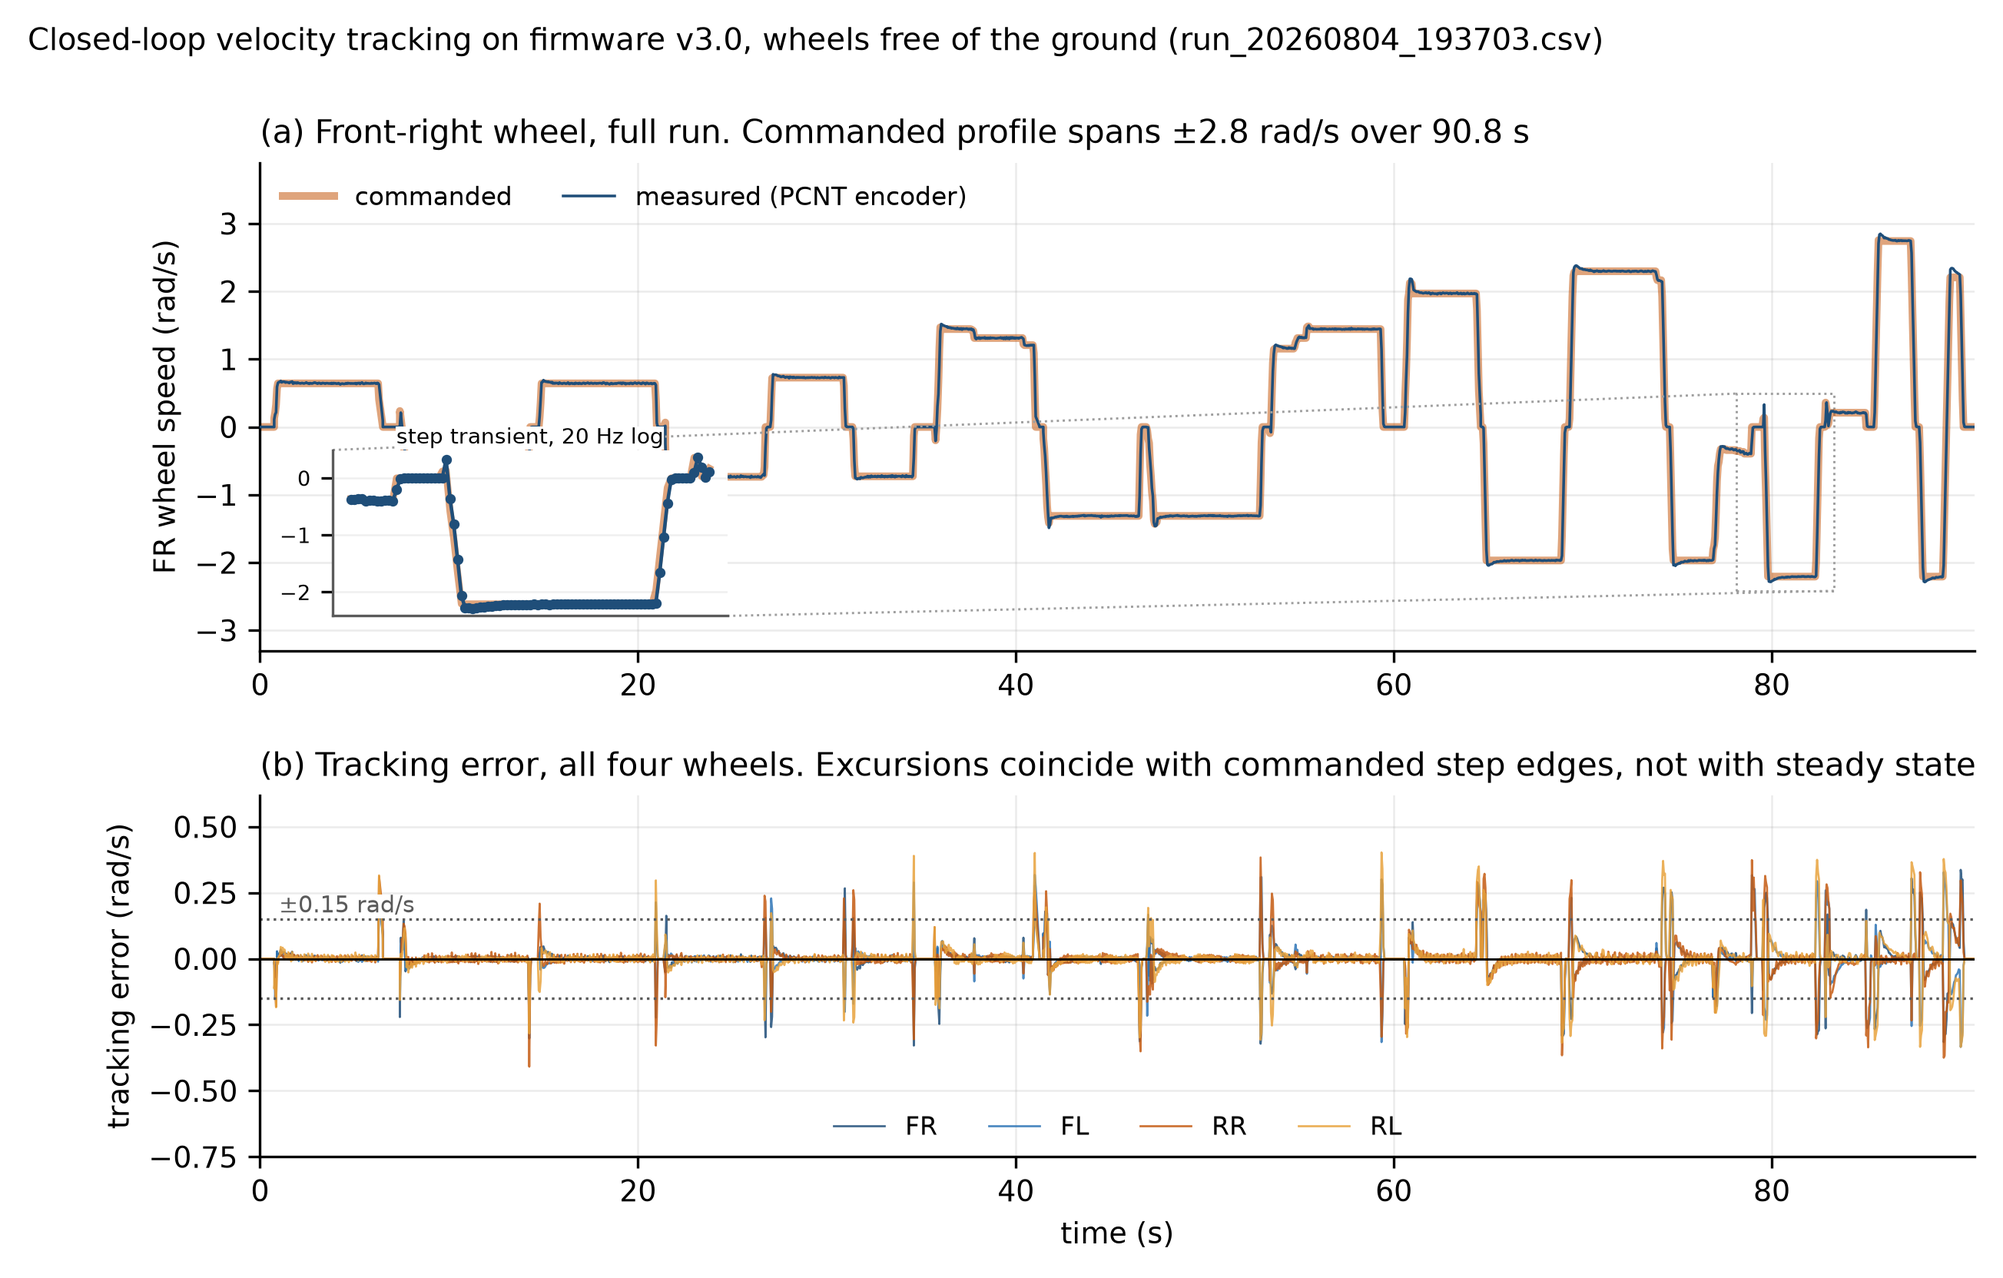
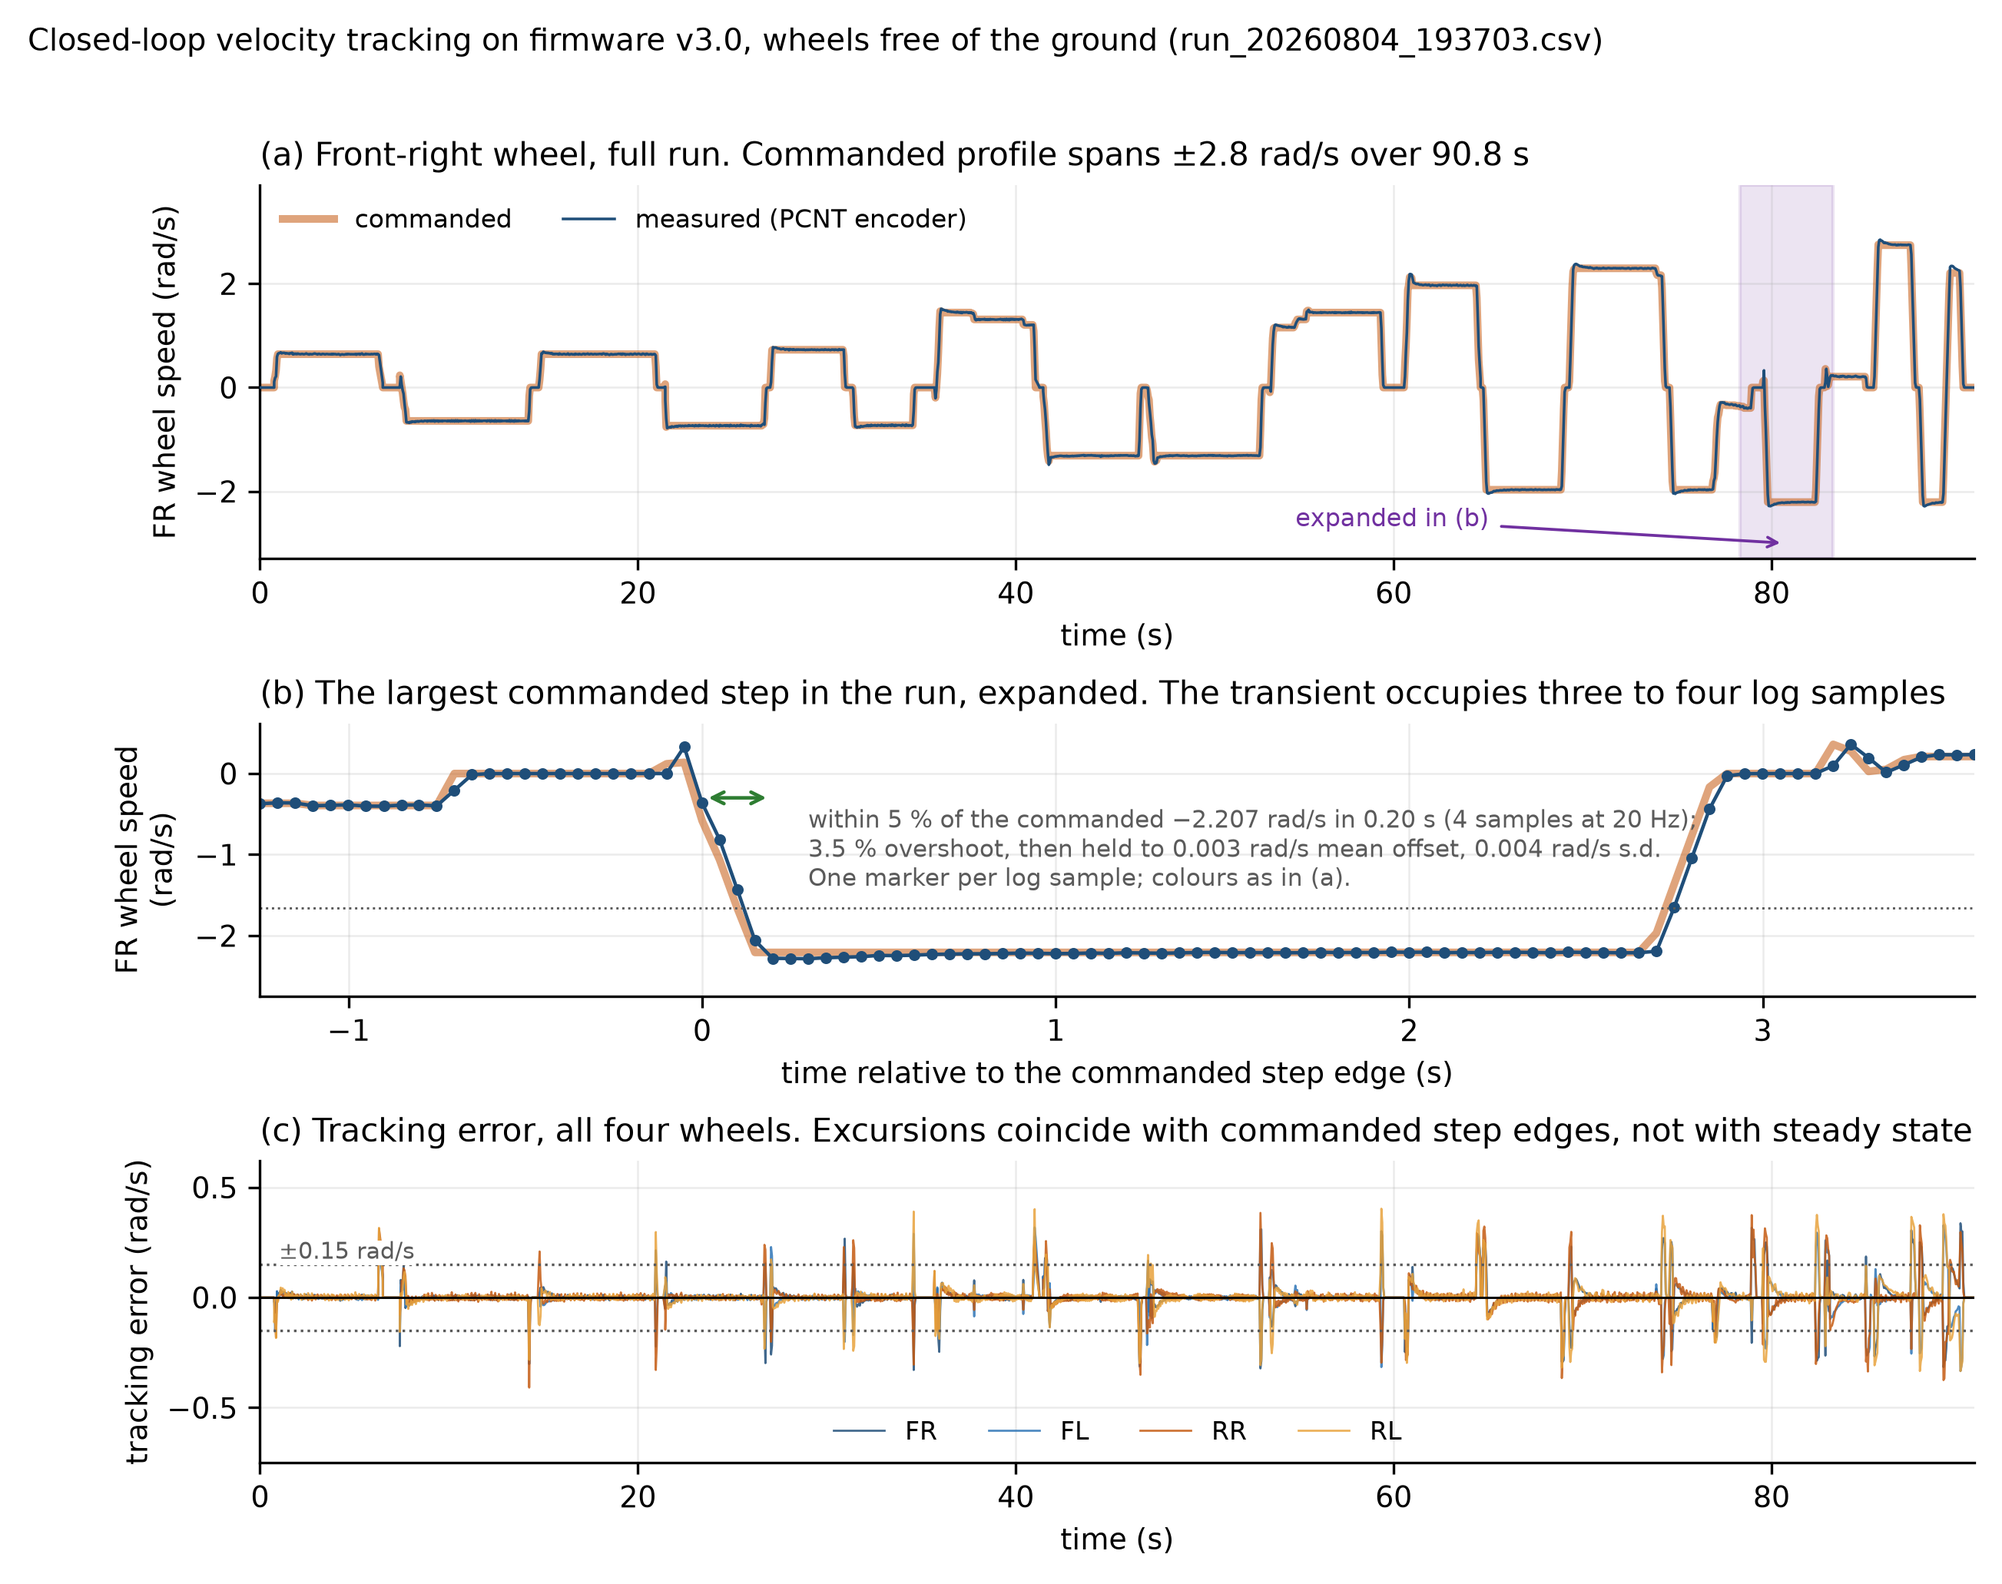
Rebuild the tracking and layer-status figures against current data
Two figures carried claims the repo's own logs no longer support, and both
were redrawn from the data rather than edited.

f_track2.py (Figure 7). The step-transient inset sat on top of the trace it
annotated, had its x-axis ticks stripped, and was never mentioned in the
caption, so the one thing it existed to show -- the timescale of the
transient -- was the one thing a reader could not recover from it. Replaced
the inset with a third panel carrying a real time axis relative to the step
edge, and annotated it with the measured numbers: the wheel reaches within
5 % of the commanded -2.207 rad/s in 0.20 s (four 20 Hz samples), overshoots
3.5 %, then holds to a 0.003 rad/s mean offset with 0.004 rad/s s.d. The
region it expands is now shaded in panel (a).

f_layers.py (Figure 13). Two of its entries were stale and contradicted the
report text written after them:

  - "every map ever built grades FOLDED" predates the 15 Sep A/B/C. RAW does
    not fold; the verdict on the three commissioning maps is not-folded, and
    the criterion that actually fails is coverage at 77.6-84.6 % unclassified.
  - "0.229 m over ~18 m (1.27 %), on spec" was correct but sat under a report
    sentence claiming closure below 1 % on every logged drive. It is below 1 %
    up to 10.61 m and 1.1-1.5 % on the long routes.

Also corrected the kinematics self-test figure. wheel_forensics.py --selftest
prints 2.22e-16 worst case for the forward/inverse round trip (one ULP of
[…]

diff --git a/docs/aps_report/figure_src/f_layers.py b/docs/aps_report/figure_src/f_layers.py
@@ -1,86 +1,110 @@
 import sys, os; sys.path.insert(0, os.path.dirname(os.path.abspath(__file__)))
 from style import *
-import numpy as np
 import matplotlib.patches as mp
 
-# (layer, grade, evidence one-liner, band)  band: 'good' | 'break' | 'never'
+# (layer, band, evidence where it exists, or the stated reason where it does not)
+# bands: 'measured' | 'rate' | 'open'
 L = [
- ('Motor control — ESP32, PID + feedforward, 100 Hz', 'good',
-  'all four motors 0.043–0.046 rad/s RMS, zero saturation, zero sign fault'),
- ('Encoders and wiring',                                            'good',
-  'travel-spread ratio 1.00 on a non-rotating square'),
- ('Asymmetric mecanum kinematics',                                  'good',
-  'forward model reproduces ground-truth twist to 1.7e-16 over 20 000 random twists'),
- ('Odometry integration',                                           'good',
-  'offline re-integration from raw encoders diverges 0.0054 m peak, 0.0000 m final'),
- ('Wheel-odometry physical accuracy',                               'good',
-  '4.582 m closed to 3.1 mm (0.07 %); 0.229 m over ~18 m (1.27 %), on spec'),
- ('map→odom — the SLAM front end',                                  'break',
-  'one correction per pose-graph node, every node; 6.8× spread across identical drives'),
- ('An accepted commissioning map',                                  'break',
-  'every map ever built grades FOLDED; one of four sub-criteria met, once'),
- ('AMCL localisation on a saved map',                               'never',
-  'the whole block has never executed; a launch-topology fault made it impossible'),
- ('Global planner — NavFn',                                         'ok-starved',
-  'plans successfully, runs at 1.25 Hz against 5 Hz requested'),
- ('Local controller — MPPI, omnidirectional model',                 'ok-starved',
-  'goals reached in 25.9 s and 21.0 s; control loop 7.5–13.7 Hz against 20 Hz'),
- ('Safety chain — collision_monitor to wheels',                     'ok-starved',
-  'confirmed end to end; stale-scan warnings under CPU load'),
- ('Operator dashboard',                                             'good',
-  'click pixel to world coordinate exact to 1e-6 at three device pixel ratios'),
- ('Named-location library',                                         'never',
-  'designed, no code written'),
+ ('Motor control, ESP32, PID with feedforward, 100 Hz', 'measured',
+  'per-wheel RMS 0.040-0.047 rad/s over 26 468 bench samples, 0.066-0.077 rad/s under\n'
+  'chassis load over 35 248; no channel saturated in any recorded run'),
+ ('Encoders and level-shifted return path', 'measured',
+  'quadrature decoded on hardware counters; travel-spread ratio 1.00 on a\n'
+  'non-rotating square'),
+ ('Asymmetric mecanum kinematics', 'measured',
+  'forward model inverts independently generated twists to 2.22e-16 worst case\n'
+  'over 20 000 random cases, which is one unit in the last place'),
+ ('Odometry integration', 'measured',
+  'offline re-integration from the raw encoder record diverges 0.0054 m peak\n'
+  'and 0.0000 m at the end of a complete drive'),
+ ('Wheel-odometry closure against the floor', 'measured',
+  '0.07 % over 4.582 m; 0.23, 0.29 and 0.91 % over 8.00 to 10.61 m;\n'
+  '1.27 % over the longest route driven, about 18 m'),
+ ('Yaw-consistency residual from the two diagonal pairs', 'measured',
+  'median 0.035 rad/s while moving over four drives, p95 0.111-0.124,\n'
+  'no sample above the 0.5 rad/s episode threshold'),
+ ('Operator dashboard, screen to world transform', 'measured',
+  'tapped pixel to world coordinate within 1e-6 of the analytic value at three\n'
+  'device pixel ratios'),
+ ('Global planner, NavFn', 'rate',
+  'plans successfully on every goal attempted; runs at 1.25 Hz against the 5 Hz\n'
+  'requested, limited by host CPU rather than by the planner'),
+ ('Local controller, MPPI with an omnidirectional model', 'rate',
+  'goals reached in 21.0 s and 25.9 s; control loop 7.5-13.7 Hz against 20 Hz\n'
+  'requested, same host CPU limit'),
+ ('Safety chain, collision monitor through to the wheels', 'rate',
+  'confirmed end to end; issues stale-scan warnings under the same CPU load'),
+ ('Scan matching into the pose estimate', 'open',
+  'measured to increase closure error, 0.229 m to 0.477 m on an 18 m drive and\n'
+  '2.58 cm to 6.2 cm on a 38 s square, so it was disabled on measured evidence.\n'
+  'A re-enabled configuration with the range cap now settled is prepared and not yet driven'),
+ ('A commissioning map meeting all four acceptance criteria', 'open',
+  'three of four met: verdict not folded, doubled walls 0.7-1.03 %, return to mark\n'
+  '6.4-80.6 mm. Coverage fails at 77.6-84.6 % unclassified because the available\n'
+  'test area permits a traversable loop of only a few metres'),
+ ('Localisation against a previously saved map', 'open',
+  'requires an accepted map, the row above; not yet exercised for that reason'),
+ ('Inertial measurement and fused state estimation', 'open',
+  'deliberately deferred. The unfused estimate is the baseline against which the\n'
+  'sensing requirement is stated, and fitting the sensor first removes it'),
+ ('Named-location library', 'open',
+  'designed; implementation held behind an accepted map, which defines the\n'
+  'coordinates it would store'),
 ]
 
-COL = {'good': C['fixed'], 'break': C['defect'], 'never': C['grey'],
-       'ok-starved': C['command']}
-MARK = {'good': '✓', 'break': '✗', 'never': '·', 'ok-starved': '~'}
+COL  = {'measured': C['fixed'], 'rate': C['command'], 'open': C['neutral']}
+MARK = {'measured': '●', 'rate': '◐', 'open': '○'}
+FILL = {'measured': 0.92, 'rate': 0.92, 'open': 0.0}
 
-fig, ax = plt.subplots(figsize=(10.6, 6.0))
-GAP = 1.35          # extra room between layer 5 and layer 6, where the cliff is
-TOP = len(L) + GAP
-ax.set_xlim(0, 100); ax.set_ylim(-0.6, TOP + 3.0); ax.axis('off')
+fig, ax = plt.subplots(figsize=(11.4, 9.2))
+GAP = 1.85          # extra space where measured evidence ends
+first_open = min(i for i, r in enumerate(L) if r[1] == 'open')
 
-def ypos(i):
-    return TOP - i - (GAP if i >= 5 else 0)
+# Row height follows the number of evidence lines, so a three-line reason does
+# not run into the row beneath it.
+heights = [0.62 + 0.42*ev.count('\n') for _, _, ev in L]
+ys, cur = [], 0.0
+for i, h in enumerate(heights):
+    if i == first_open:
+        cur += GAP
+    cur += h
+    ys.append(-cur + h/2)
+TOP = 0.0
+
+ax.set_xlim(0, 100); ax.set_ylim(min(ys)-2.2, 2.9); ax.axis('off')
+
+def mark(x, y, band):
+    ax.plot([x], [y], marker='o', ms=8.5, mfc=COL[band] if FILL[band] else 'none',
+            mec=COL[band], mew=1.4, alpha=0.95, clip_on=False, zorder=5, ls='none')
 
 for i, (name, band, ev) in enumerate(L):
-    y = ypos(i)
-    col = COL[band]
-    # the status chip: width carries the message, not a uniform box
-    w = {'good': 5.2, 'ok-starved': 3.6, 'break': 5.2, 'never': 2.2}[band]
-    ax.add_patch(mp.Rectangle((1.5, y-0.30), w, 0.60, fc=col,
-                              ec='none', alpha=0.92 if band != 'never' else 0.5))
-    ax.text(1.5+w/2, y, MARK[band], ha='center', va='center', fontsize=10,
-            color='white', fontweight='bold')
-    ax.text(8.4, y, name, ha='left', va='center', fontsize=8.6,
-            fontweight='bold' if band == 'break' else 'normal',
-            color=col if band in ('break',) else 'k')
-    ax.text(46, y, ev, ha='left', va='center', fontsize=7.3, color=C['neutral'])
+    y = ys[i]
+    mark(2.6, y, band)
+    ax.text(5.6, y, name, ha='left', va='center', fontsize=8.5, color='k')
+    ax.text(46, y, ev, ha='left', va='center', fontsize=7.0,
+            color=C['neutral'], linespacing=1.35)
 
-# the cliff
-CLIFF = (ypos(4) + ypos(5)) / 2.0
-ax.plot([1.5, 99], [CLIFF, CLIFF], color=C['defect'], lw=1.5, ls=(0, (7, 4)))
-ax.text(1.5, CLIFF + 0.30, 'everything below the LiDAR is measured and good',
-        fontsize=8.2, color=C['fixed'], style='italic')
-ax.text(1.5, CLIFF - 0.30, 'everything from the LiDAR up is broken, starved, or has never run',
-        fontsize=8.2, color=C['defect'], style='italic', va='top')
+CLIFF = (ys[first_open-1] - heights[first_open-1]/2 + ys[first_open] + heights[first_open]/2) / 2.0
+ax.plot([2.0, 99], [CLIFF, CLIFF], color=C['neutral'], lw=1.0, ls=(0, (6, 4)))
+ax.text(2.0, CLIFF + 0.20, 'evidence available and reproduced',
+        fontsize=8.0, color=C['fixed'], style='italic', va='bottom')
+ax.text(2.0, CLIFF - 0.20, 'remaining work, with the reason it has not been done stated against each row',
+        fontsize=8.0, color=C['neutral'], style='italic', va='top')
 
-ax.text(1.5, TOP + 2.45,
-        'The break is at exactly one component, and it is not where three months of effort went.',
-        fontsize=9.6, fontweight='bold')
-ax.text(1.5, TOP + 1.75,
-        'On the longest drive in the project, wheel odometry came back 0.229 m from the mark — '
-        '1.27 %, dead on its own spec —\nand the SLAM estimate took that and made it 0.477 m worse. '
-        'The cheapest sensor on the robot is the most trustworthy one.',
-        fontsize=8.0, color=C['neutral'], va='top')
+ax.text(2.0, TOP + 2.45,
+        'Evidence status of each layer of the system',
+        fontsize=10.2, fontweight='bold')
+ax.text(2.0, TOP + 1.75,
+        'Every layer carrying the platform’s motion is measured against an external reference or an independent implementation. '
+        'The layers that remain\nare listed with the specific reason they are outstanding, which in three of five cases is the size of the available test space rather than the platform.',
+        fontsize=7.8, color=C['neutral'], va='top', linespacing=1.45)
 
-for lbl, band, x in [('measured, reproduced', 'good', 4), ('works but CPU-starved', 'ok-starved', 30),
-                     ('broken', 'break', 56), ('never executed', 'never', 72)]:
-    ax.add_patch(mp.Rectangle((x, -0.45), 2.0, 0.5, fc=COL[band], ec='none',
-                              alpha=0.92 if band != 'never' else 0.5))
-    ax.text(x+2.7, -0.20, lbl, fontsize=7.6, va='center')
+LEG = min(ys) - 1.5
+for lbl, band, x in [('measured and reproduced', 'measured', 2.6),
+                     ('works, below its requested update rate', 'rate', 30.0),
+                     ('not yet established, reason stated', 'open', 66.0)]:
+    mark(x, LEG, band)
+    ax.text(x+2.0, LEG, lbl, fontsize=7.6, va='center')
 
 plt.tight_layout()
 plt.savefig(f'{FIGDIR}/fig22_layer_audit.png', bbox_inches='tight')

diff --git a/docs/aps_report/figure_src/f_track2.py b/docs/aps_report/figure_src/f_track2.py
@@ -1,7 +1,6 @@
 import sys, os; sys.path.insert(0, os.path.dirname(os.path.abspath(__file__)))
 from style import *
-import numpy as np, csv, math
-from mpl_toolkits.axes_grid1.inset_locator import inset_axes, mark_inset
+import numpy as np, csv
 
 def load(p):
     with open(p) as f:
@@ -10,34 +9,53 @@ def load(p):
 
 A = load(f'{REPO}/data/bench_logs/bench/run_20260804_193703.csv')
 t = A[:,0]-A[0,0]
+tg, ac = A[:,1], A[:,2]
 
-fig = plt.figure(figsize=(9.6, 5.6))
-gs = fig.add_gridspec(2, 1, height_ratios=[1.35, 1], hspace=0.34)
+# The step the zoom panel expands: the largest commanded change in the run.
+i0 = int(np.argmax((t > 79.5) & (tg < -0.5)))
+TGT = tg[i0+2]                      # -2.207 rad/s, the level commanded after the ramp
+W0, W1 = t[i0]-1.3, t[i0]+3.6       # zoom window, seconds
 
-# (a) FR full trace + inset
+fig = plt.figure(figsize=(9.6, 7.2))
+gs = fig.add_gridspec(3, 1, height_ratios=[1.30, 0.95, 1.05], hspace=0.52)
+
+# (a) full run -------------------------------------------------------------
 ax = fig.add_subplot(gs[0])
-tg, ac, pw = A[:,1], A[:,2], A[:,3]
 ax.plot(t, tg, color=C['command'], lw=2.4, alpha=0.55, label='commanded', zorder=2)
 ax.plot(t, ac, color=C['telemetry'], lw=0.85, label='measured (PCNT encoder)', zorder=3)
 ax.set_ylabel('FR wheel speed (rad/s)'); ax.set_ylim(-3.3, 3.9); ax.set_xlim(0, t[-1])
+ax.set_xlabel('time (s)')
 ax.legend(loc='upper left', fontsize=8, ncol=2)
 ax.set_title('(a) Front-right wheel, full run. Commanded profile spans '
              r'$\pm$2.8 rad/s over 90.8 s', loc='left')
+# mark the region panel (b) expands, drawn so it is actually visible
+ax.axvspan(W0, W1, color=C['accent'], alpha=0.13, zorder=1)
+ax.annotate('expanded in (b)', xy=((W0+W1)/2, -3.0), xytext=((W0+W1)/2-26, -2.55),
+            fontsize=7.6, color=C['accent'], ha='left', va='center',
+            arrowprops=dict(arrowstyle='->', color=C['accent'], lw=0.9))
 
-# inset on the largest transient
-i0 = int(np.argmax(np.abs(np.diff(tg))))
-lo, hi = max(0, i0-25), min(len(t)-1, i0+70)
-axi = inset_axes(ax, width='23%', height='34%', loc='lower left',
-                 bbox_to_anchor=(0.035, 0.045, 1, 1), bbox_transform=ax.transAxes)
-axi.plot(t[lo:hi], tg[lo:hi], color=C['command'], lw=2.2, alpha=0.55)
-axi.plot(t[lo:hi], ac[lo:hi], color=C['telemetry'], lw=1.1, marker='o', ms=2.2)
-axi.set_xticks([]); axi.tick_params(labelsize=6.5); axi.grid(alpha=0.2)
-axi.set_title('step transient, 20 Hz log', fontsize=6.8, pad=2, bbox=MASK)
-for s in axi.spines.values(): s.set_edgecolor(C['neutral'])
-mark_inset(ax, axi, loc1=2, loc2=4, fc='none', ec=C['grey'], lw=0.7, ls=':')
+# (b) the step transient, with a real time axis ----------------------------
+ax1 = fig.add_subplot(gs[1])
+m = (t >= W0) & (t <= W1)
+tr = t[m]-t[i0]
+ax1.plot(tr, tg[m], color=C['command'], lw=2.4, alpha=0.55)
+ax1.plot(tr, ac[m], color=C['telemetry'], lw=1.1, marker='o', ms=2.6)
+ax1.axhline(TGT, color=C['neutral'], lw=0.7, ls=':')
+ax1.set_xlim(tr[0], tr[-1]); ax1.set_ylim(-2.75, 0.62)
+ax1.set_xlabel('time relative to the commanded step edge (s)')
+ax1.set_ylabel('FR wheel speed\n(rad/s)')
+ax1.set_title('(b) The largest commanded step in the run, expanded. The transient '
+              'occupies three to four log samples', loc='left')
+ax1.annotate('', xy=(0.0, -0.30), xytext=(0.20, -0.30),
+             arrowprops=dict(arrowstyle='<->', color=C['fixed'], lw=1.1))
+ax1.text(0.30, -0.95, 'within 5 % of the commanded '
+                      r'$-$2.207 rad/s in 0.20 s (4 samples at 20 Hz);'
+                      '\n3.5 % overshoot, then held to 0.003 rad/s mean offset, '
+                      '0.004 rad/s s.d.\nOne marker per log sample; colours as in (a).',
+         fontsize=7.4, va='center', ha='left', color=C['neutral'])
 
-# (b) error traces
-ax2 = fig.add_subplot(gs[1])
+# (c) error traces ---------------------------------------------------------
+ax2 = fig.add_subplot(gs[2])
 for i in range(4):
     e = A[:,2+3*i] - A[:,1+3*i]
     ax2.plot(t, e, lw=0.65, color=MOTC[i], alpha=0.85, label=MOT[i])
@@ -49,10 +67,10 @@ ax2.text(1.0, 0.175, r'$\pm$0.15 rad/s', ha='left', fontsize=7.2,
 ax2.set_ylim(-0.75, 0.62); ax2.set_xlim(0, t[-1])
 ax2.set_xlabel('time (s)'); ax2.set_ylabel('tracking error (rad/s)')
 ax2.legend(ncol=4, fontsize=8, loc='lower center', bbox_to_anchor=(0.5, -0.02))
-ax2.set_title('(b) Tracking error, all four wheels. Excursions coincide with '
+ax2.set_title('(c) Tracking error, all four wheels. Excursions coincide with '
               'commanded step edges, not with steady state', loc='left')
 
 fig.suptitle('Closed-loop velocity tracking on firmware v3.0, wheels free of the ground '
-             '(run_20260804_193703.csv)', fontsize=9.5, y=0.985, x=0.02, ha='left')
+             '(run_20260804_193703.csv)', fontsize=9.5, y=0.975, x=0.02, ha='left')
 plt.savefig(f'{FIGDIR}/fig08_v30_tracking.png'); plt.close()
 print('ok')
